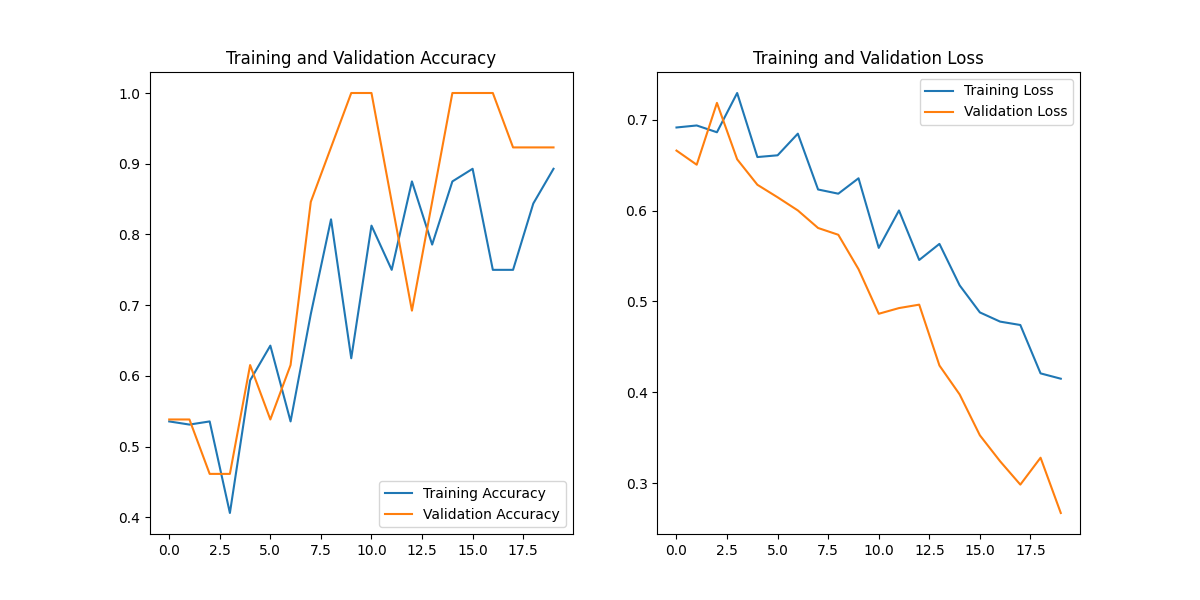
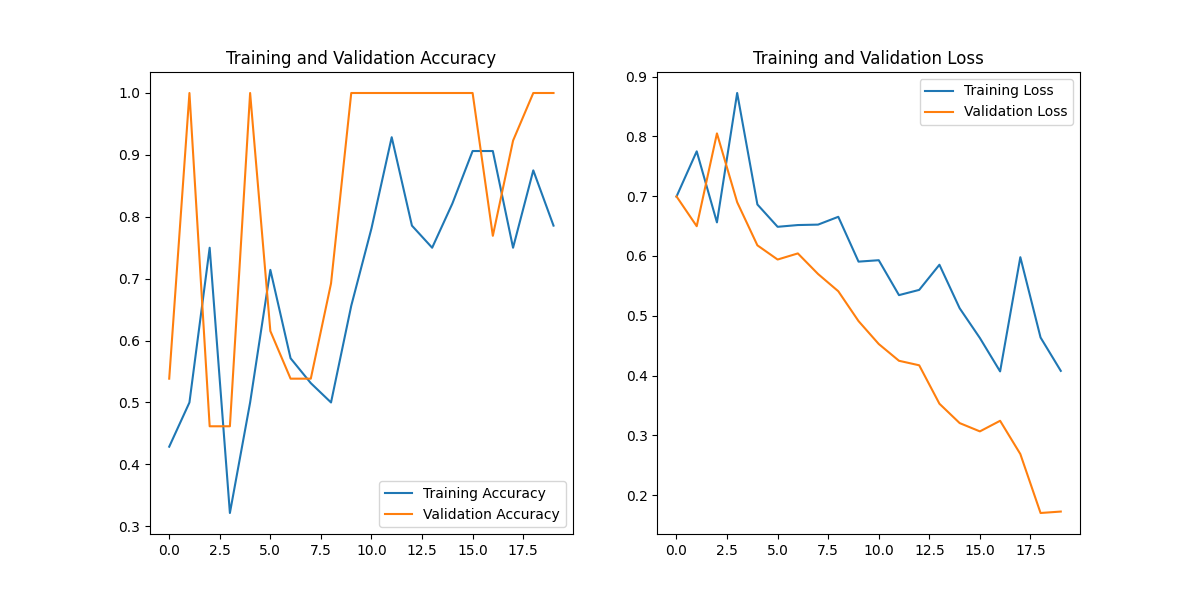
we have added the seeds

diff --git a/machine_learning/train_model.py b/machine_learning/train_model.py
@@ -8,6 +8,10 @@ from tensorflow.keras.optimizers import Adam  # type: ignore
 from tensorflow.keras.callbacks import ModelCheckpoint, EarlyStopping  # type: ignore
 import matplotlib.pyplot as plt
 
+#set random seeds for reproducibility
+tf.random.set_seed(42)
+np.random.seed(42)
+
 # Constants
 IMAGE_SIZE = (256, 256)
 BATCH_SIZE = 32
@@ -18,13 +22,13 @@ ANIMAL_CLASSES = 3  # Dog, Cat, Human (for filtering)
 # Paths
 # Should contain subfolders: crops/healthy, crops/diseased, animals/dog, animals/cat, animals/human
 DATASET_DIR = os.path.join(os.path.dirname(__file__), "dataset")
-MODEL_PATH = "agricure_model.h5"
+MODEL_PATH = "agricure_model.h5" #.h5 is more accurate than .h4, .h3
 
 
 def create_model(input_shape, num_classes):
     """Create a CNN model for classification"""
     model = Sequential([
-        Conv2D(32, (3, 3), activation='relu', input_shape=input_shape),
+        Conv2D(32, (3, 3), activation='relu', input_shape=input_shape), #filters
         MaxPooling2D(2, 2),
         Conv2D(64, (3, 3), activation='relu'),
         MaxPooling2D(2, 2),
@@ -48,8 +52,8 @@ def train_crop_model():
     """Train the main crop disease detection model"""
     # Data generators with augmentation
     train_datagen = ImageDataGenerator(
-        rescale=1./255,
-        rotation_range=40,
+        rescale=1./255, # Normalise pixel values [0,1]
+        rotation_range=40, # the angle of view the image
         width_shift_range=0.2,
         height_shift_range=0.2,
         shear_range=0.2,
@@ -65,23 +69,23 @@ def train_crop_model():
         target_size=IMAGE_SIZE,
         batch_size=BATCH_SIZE,
         class_mode='categorical',
-        subset='training'
+        subset='training' #Load only the train subset
     )
 
     validation_generator = train_datagen.flow_from_directory(
         os.path.join(DATASET_DIR, "crops"),
         target_size=IMAGE_SIZE,
         batch_size=BATCH_SIZE,
-        class_mode='categorical',
-        subset='validation'
-    )
+        class_mode='categorical', #One-hot encoding
+        subset='validation' #Load only the validation subset
+    ) 
 
     # Create and train model
     model = create_model(IMAGE_SIZE + (3,), NUM_CLASSES)
 
     callbacks = [
-        ModelCheckpoint(MODEL_PATH, save_best_only=True),
-        EarlyStopping(patience=5, restore_best_weights=True)
+        ModelCheckpoint(MODEL_PATH, save_best_only=True), # save the best model with best validation
+        EarlyStopping(patience=5, restore_best_weights=True) # stop if no improvement
     ]
 
     history = model.fit(

diff --git a/README.md b/README.md
@@ -22,7 +22,7 @@
 - Support vector Machines (SVM)
 - k- Nearest Neighbor (KNN)
 - Random Forest
-- Deep Learning (CNN) - image classification
+- Deep Learning (CNN) - image classification, face recognition, video analysis
 
 .h5 is file with the trained model
 
@@ -63,3 +63,4 @@
 5. Epochs 20 # number of full passes through the dataset
 6. Number of classes
    - Number of output classes like crops(diseased, healthy)
+7. Create a convolutional Neural Network model
